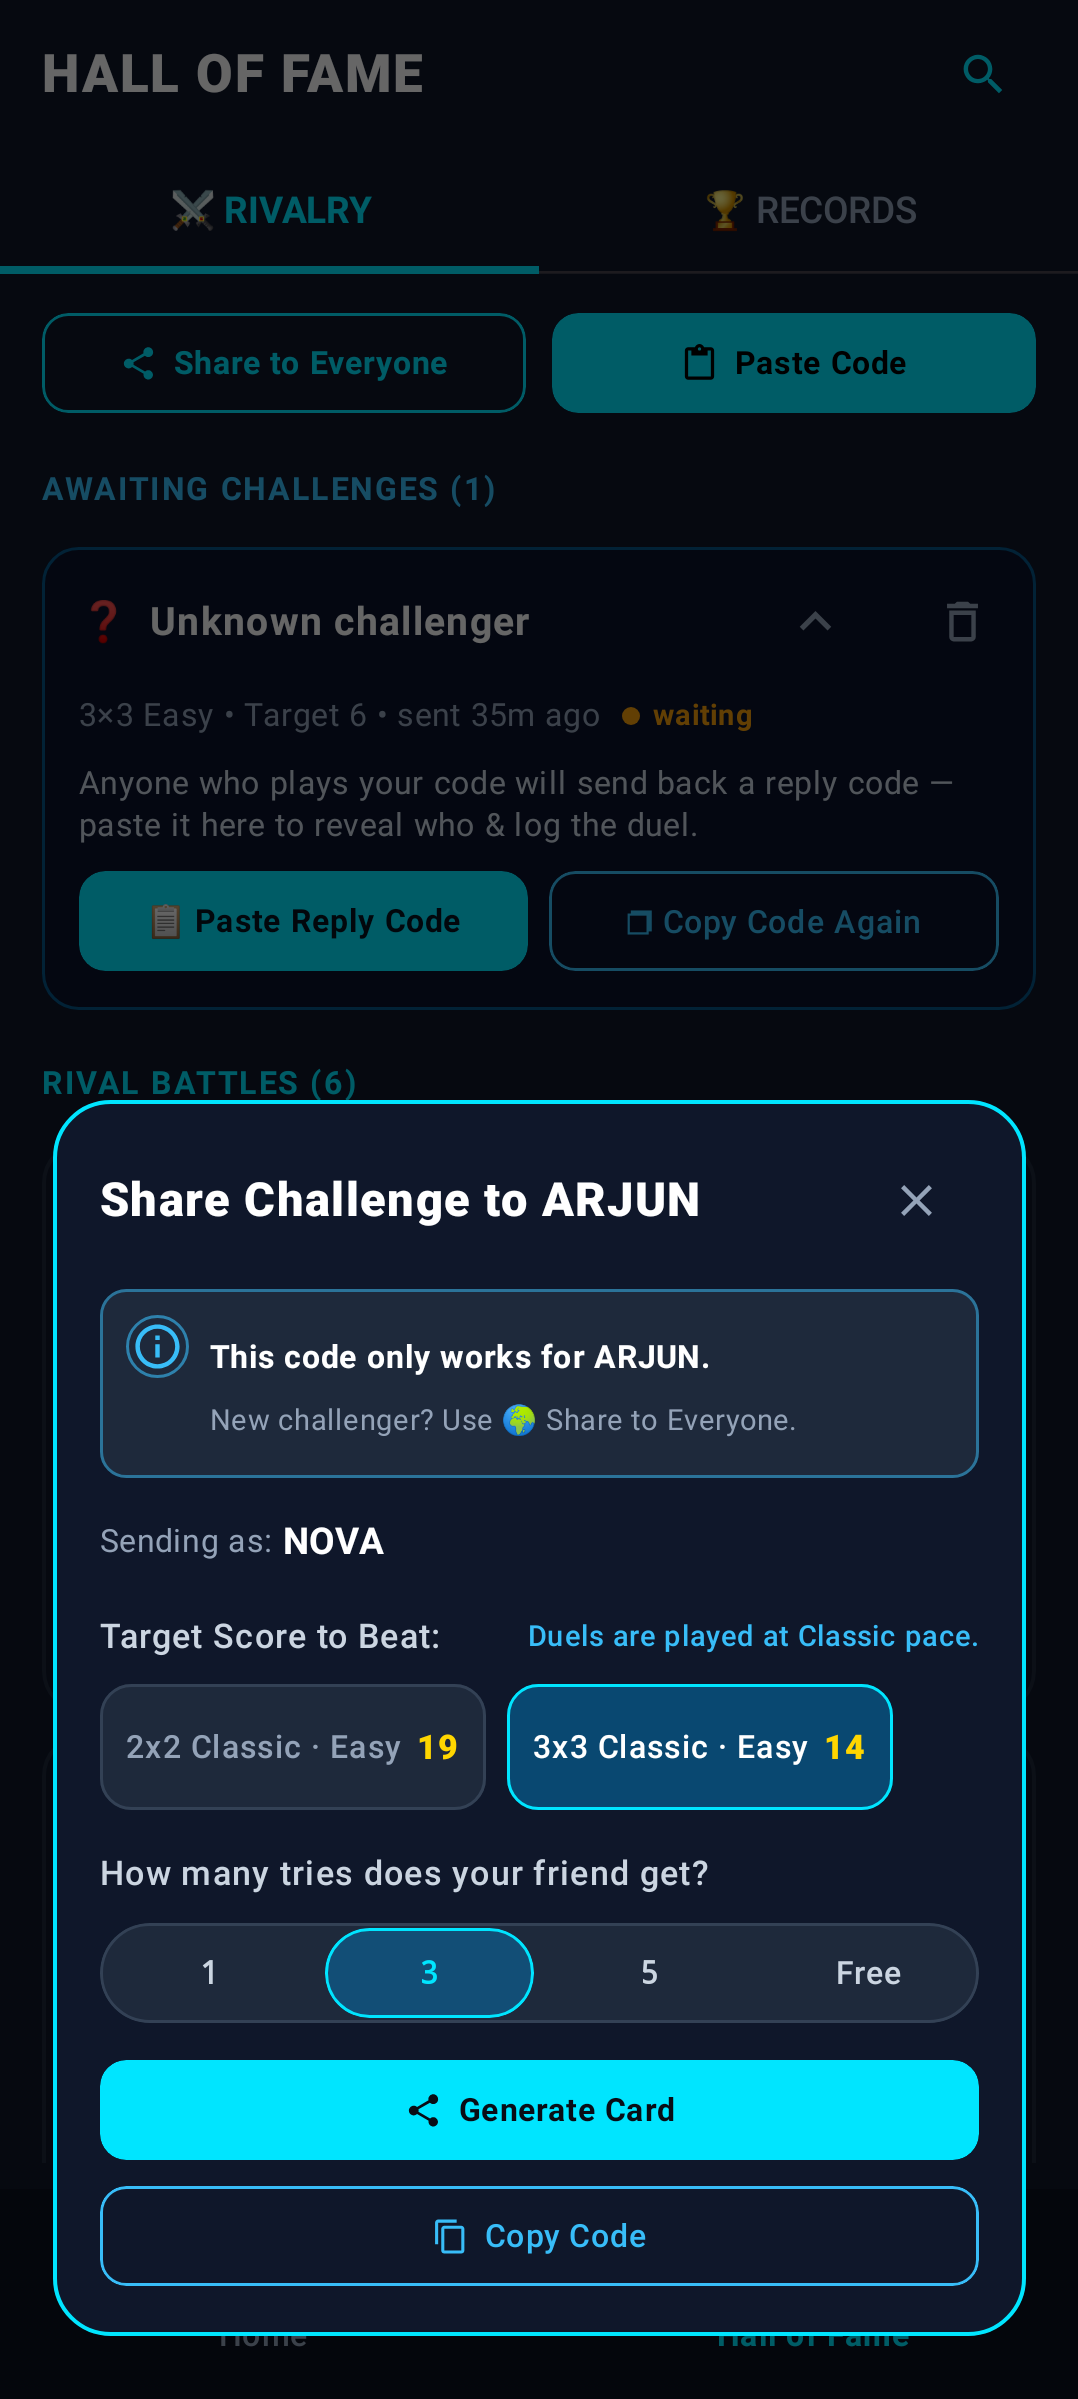
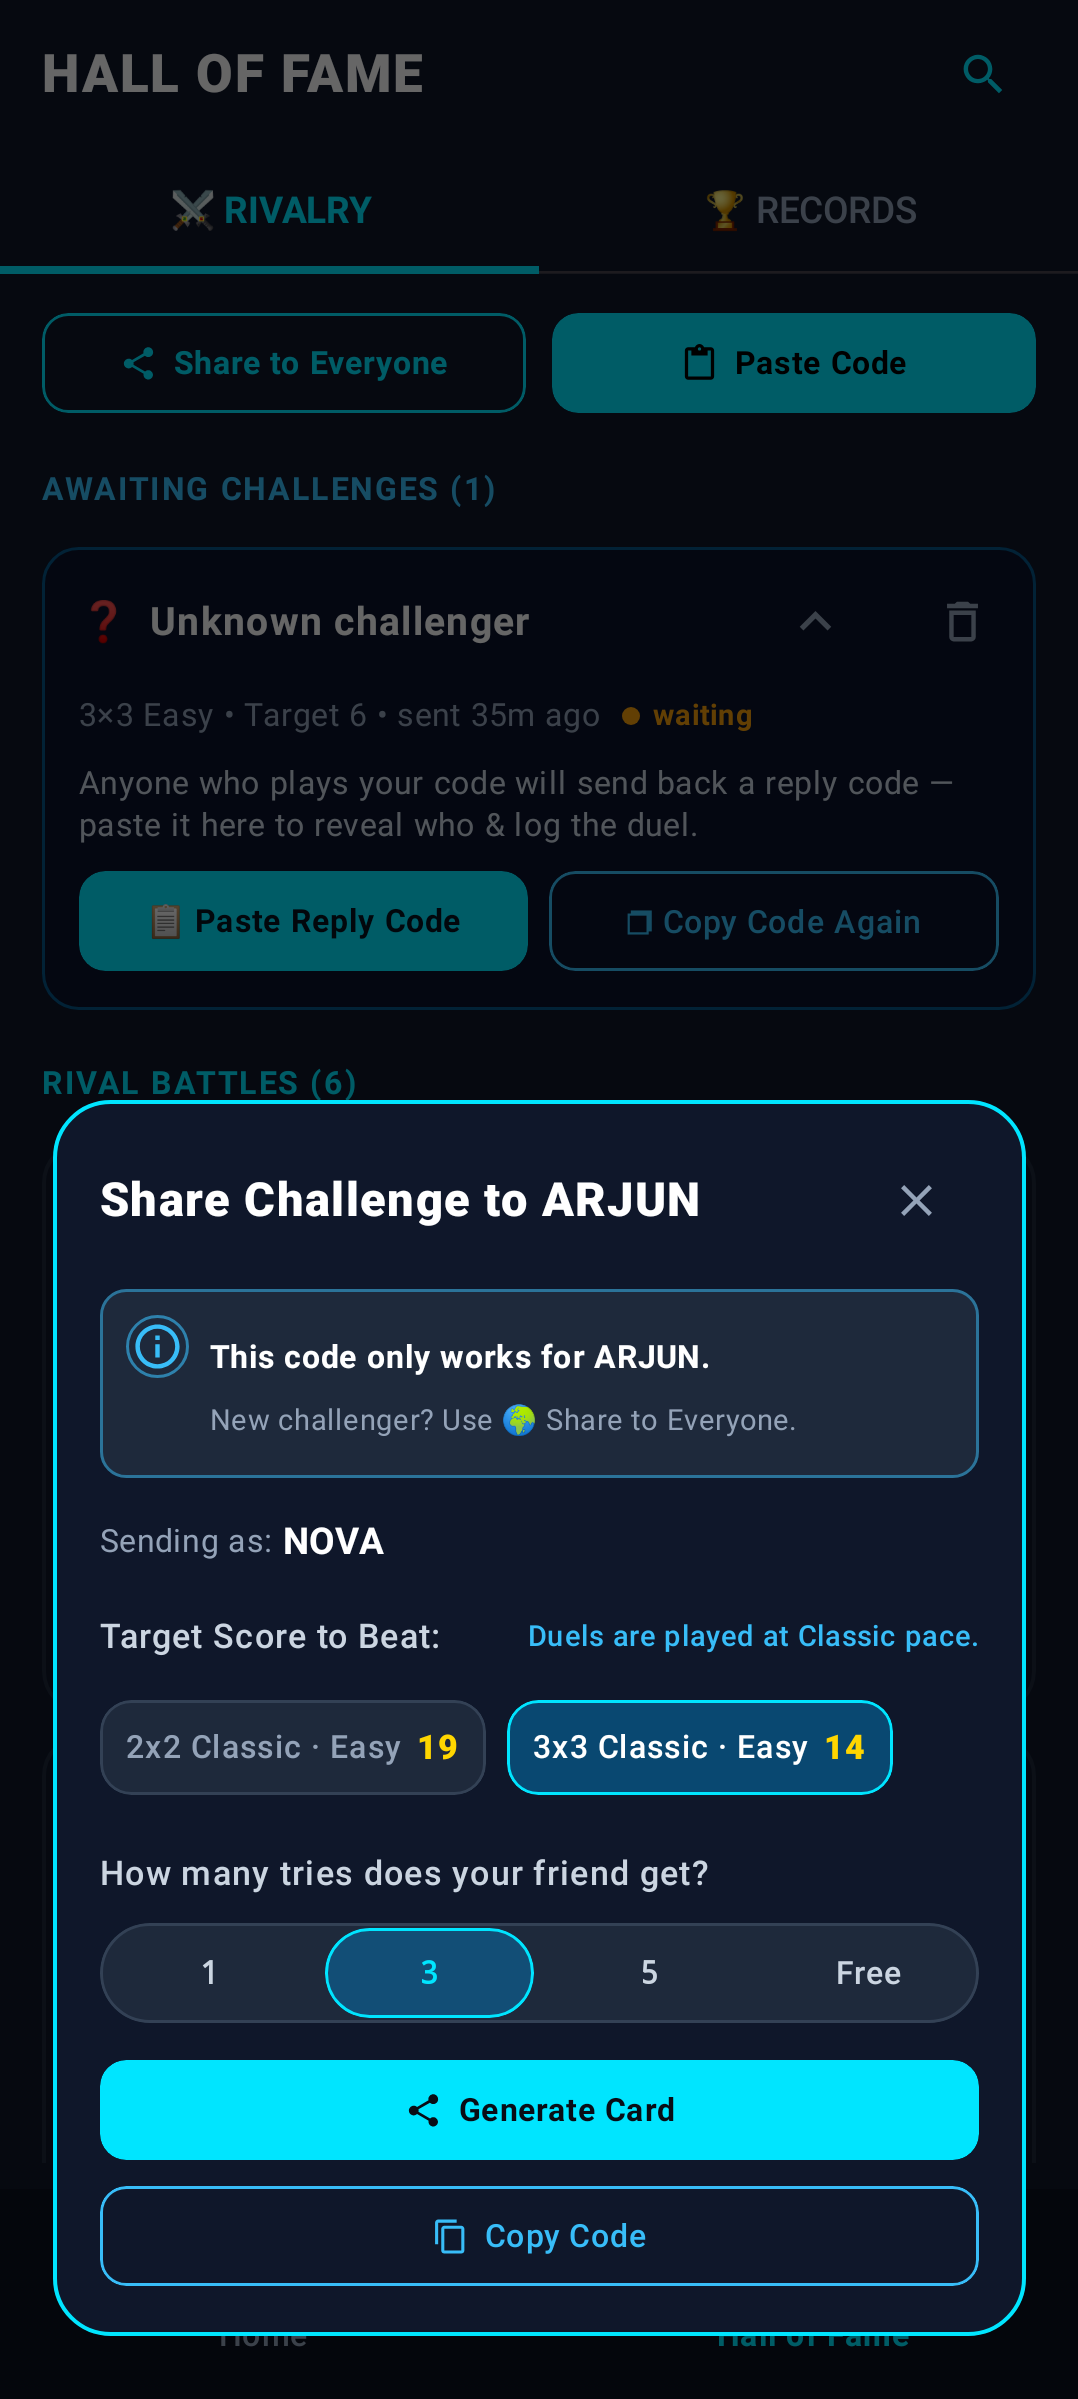
refactor(ui): optimize board option interaction
Replace Surface with Box to support custom click handling
and improve accessibility semantics for board selection.

Changed region(s): [[0.4592, 0.6786, 0.8265, 0.7712]]

diff --git a/app/src/main/java/com/example/challenge/ChallengeUI.kt b/app/src/main/java/com/example/challenge/ChallengeUI.kt
@@ -2309,38 +2309,52 @@ fun ShareTriesSelectorDialog(
                             itemsIndexed(boardOptions) { idx, opt ->
                                 val isChosen = selectedBoardIndex == idx
                                 val diffText = if (opt.difficulty == GameDifficulty.HARD) "Hard" else "Easy"
-                                Surface(
-                                    onClick = { selectedBoardIndex = idx },
-                                    shape = RoundedCornerShape(12.dp),
-                                    color = if (isChosen) Color(0xFF0284C7).copy(alpha = 0.45f) else Color(0xFF1E293B),
-                                    border = BorderStroke(1.dp, if (isChosen) Color(0xFF00E5FF) else Color(0xFF334155)),
+                                val chipInteraction = remember { MutableInteractionSource() }
+                                Box(
                                     modifier = Modifier
                                         .testTag("board_option_$idx")
                                         .minimumInteractiveComponentSize()
                                         .heightIn(min = 48.dp)
+                                        .clickable(
+                                            interactionSource = chipInteraction,
+                                            indication = null,
+                                            role = Role.RadioButton,
+                                            onClick = { selectedBoardIndex = idx }
+                                        )
                                         .semantics {
-                                            role = Role.RadioButton
                                             selected = isChosen
                                             stateDescription = if (isChosen) "Selected" else "Not selected"
-                                        }
+                                        },
+                                    contentAlignment = Alignment.Center
                                 ) {
-                                    Row(
-                                        modifier = Modifier.padding(horizontal = 10.dp, vertical = 6.dp),
-                                        verticalAlignment = Alignment.CenterVertically,
-                                        horizontalArrangement = Arrangement.spacedBy(6.dp)
+                                    Surface(
+                                        shape = RoundedCornerShape(12.dp),
+                                        color = if (isChosen) Color(0xFF0284C7).copy(alpha = 0.45f) else Color(0xFF1E293B),
+                                        border = BorderStroke(1.dp, if (isChosen) Color(0xFF00E5FF) else Color(0xFF334155)),
+                                        modifier = Modifier
+                                            .clip(RoundedCornerShape(12.dp))
+                                            .indication(chipInteraction, ripple())
                                     ) {
-                                        Text(
-                                            text = "${opt.gridTag} ${opt.paceName} · $diffText",
-                                            color = if (isChosen) Color.White else Color(0xFF94A3B8),
-                                            fontSize = 12.sp,
-                                            fontWeight = FontWeight.Medium
-                                        )
-                                        Text(
-                                            text = "${opt.score}",
-                                            color = Color(0xFFFFD600),
-                                            fontSize = 13.sp,
-                                            fontWeight = FontWeight.ExtraBold
-                                        )
+                                        Row(
+                                            modifier = Modifier
+                                                .heightIn(min = 36.dp)
+                                                .padding(horizontal = 10.dp, vertical = 6.dp),
+                                            verticalAlignment = Alignment.CenterVertically,
+                                            horizontalArrangement = Arrangement.spacedBy(6.dp)
+                                        ) {
+                                            Text(
+                                                text = "${opt.gridTag} ${opt.paceName} · $diffText",
+                                                color = if (isChosen) Color.White else Color(0xFF94A3B8),
+                                                fontSize = 12.sp,
+                                                fontWeight = FontWeight.Medium
+                                            )
+                                            Text(
+                                                text = "${opt.score}",
+                                                color = Color(0xFFFFD600),
+                                                fontSize = 13.sp,
+                                                fontWeight = FontWeight.ExtraBold
+                                            )
+                                        }
                                     }
                                 }
                             }
